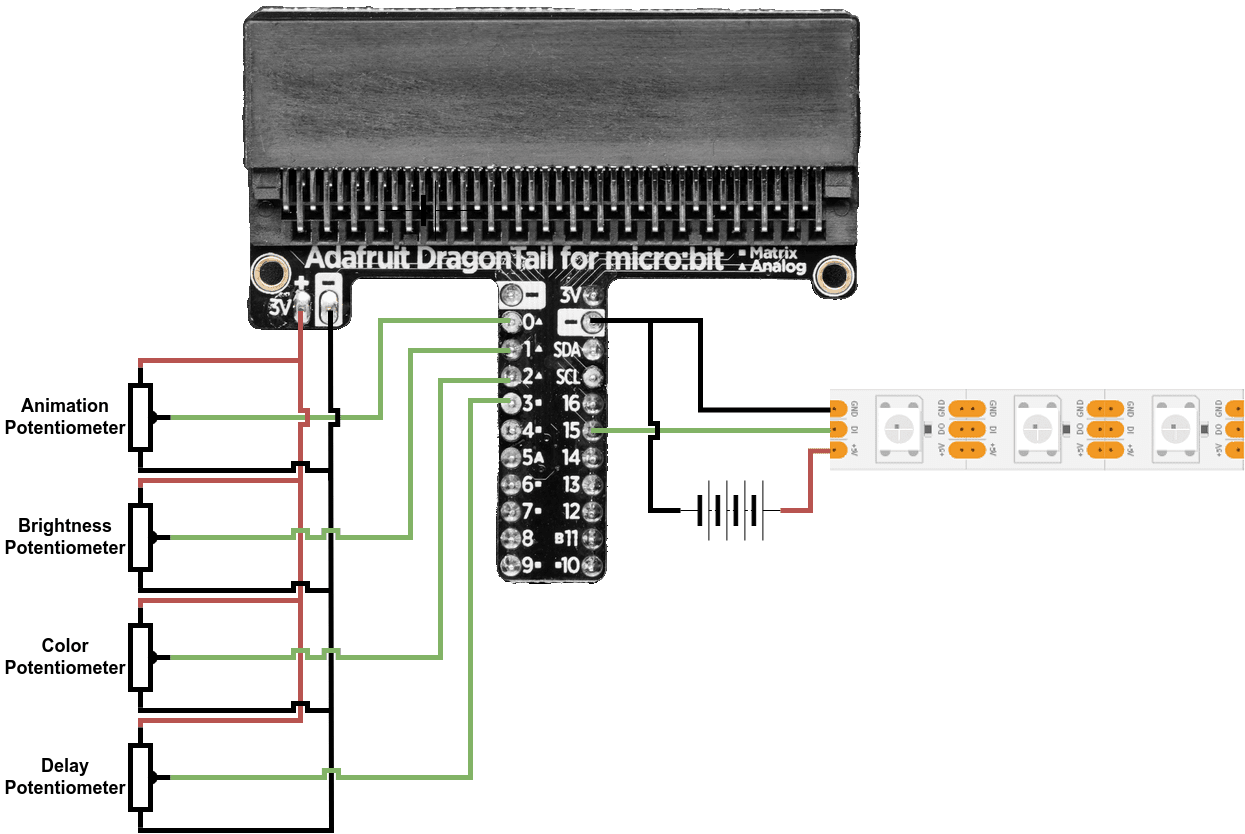
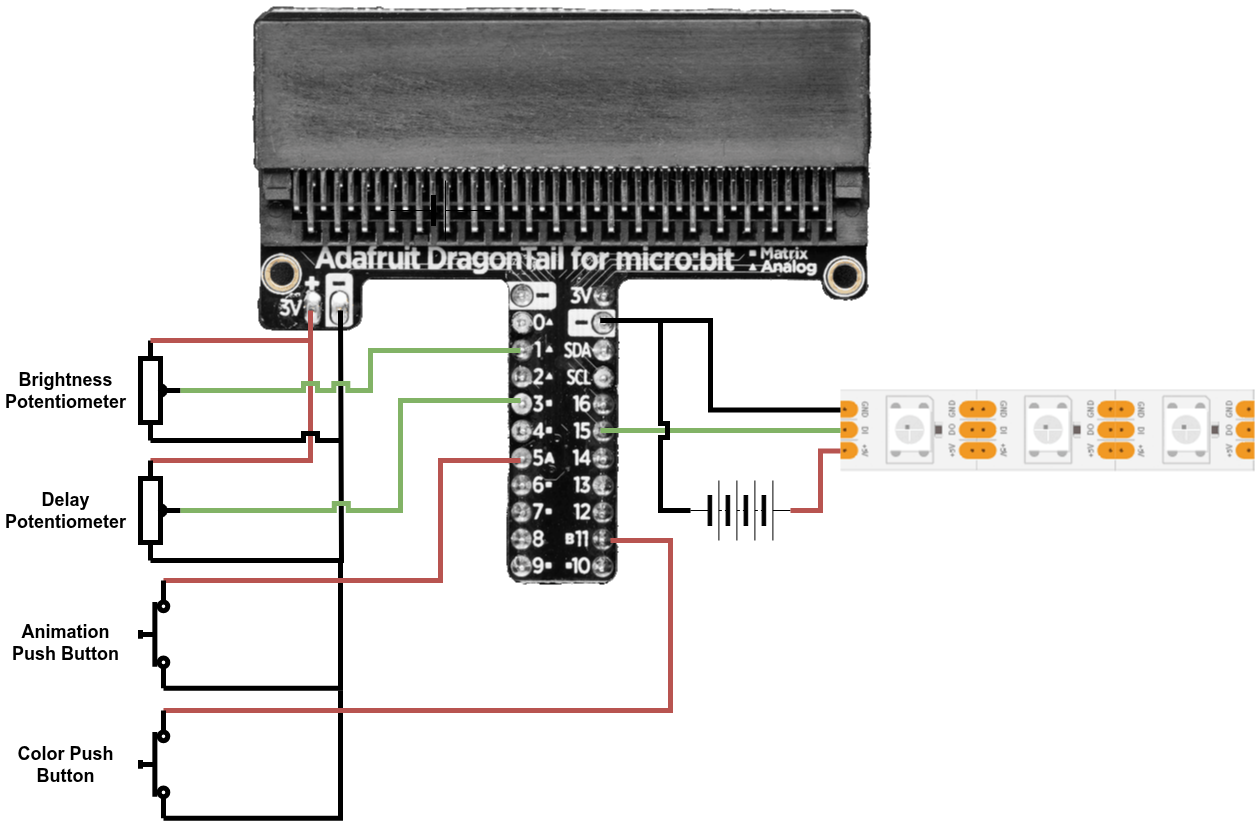
Update the wiring diagram for the Micro:bit v2 (#75)

Changed region(s): [[0.0, 0.0, 1.0, 1.0]]

diff --git a/CHANGELOG.md b/CHANGELOG.md
@@ -34,6 +34,7 @@ The format is based on [Keep a Changelog](https://keepachangelog.com/en/1.1.0/),
 ### Fixed
 
 - Address some clippy lints.
+- Update the wiring diagram for the Micro:bit v2.
 
 ### Removed
 